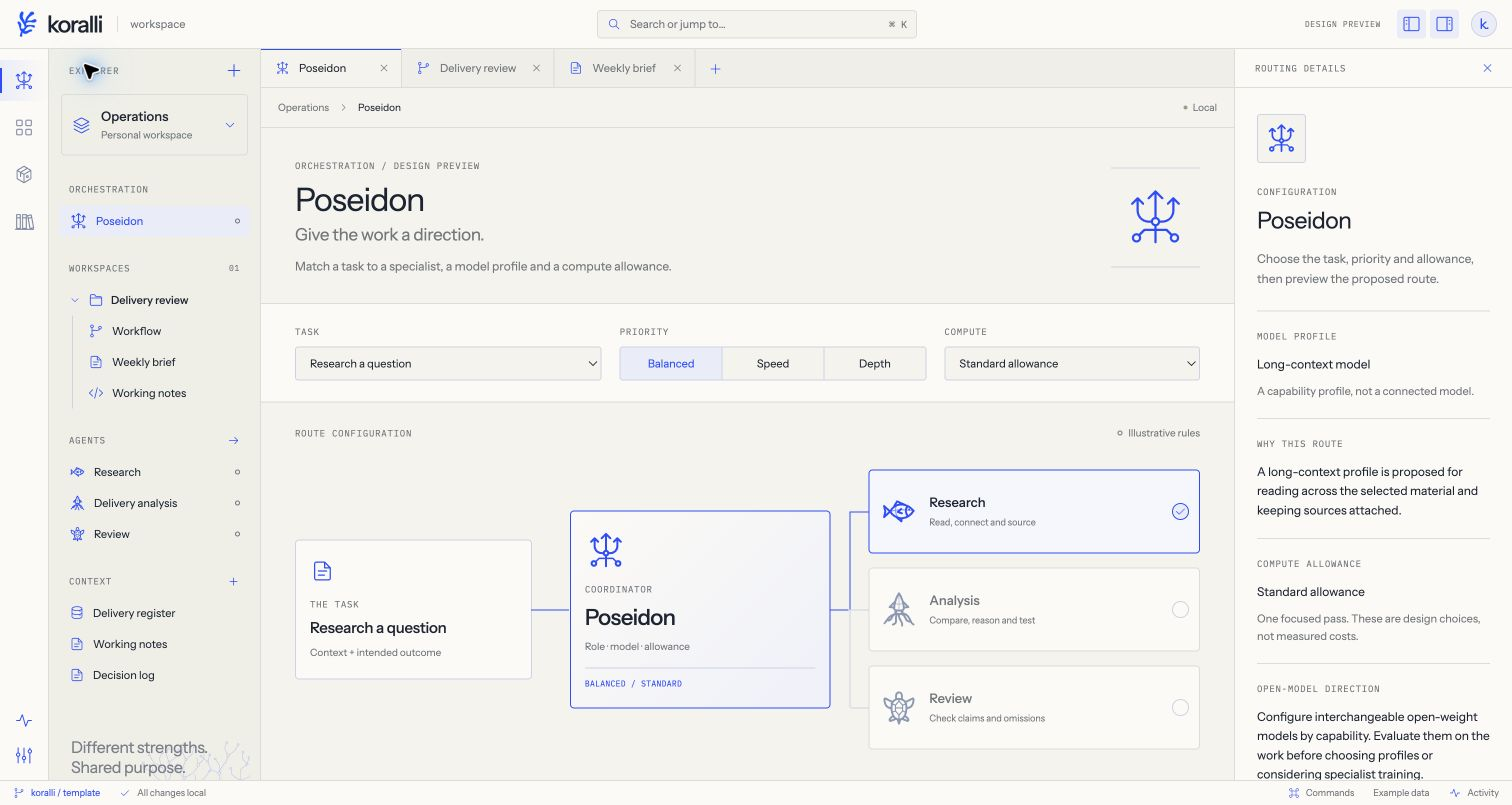
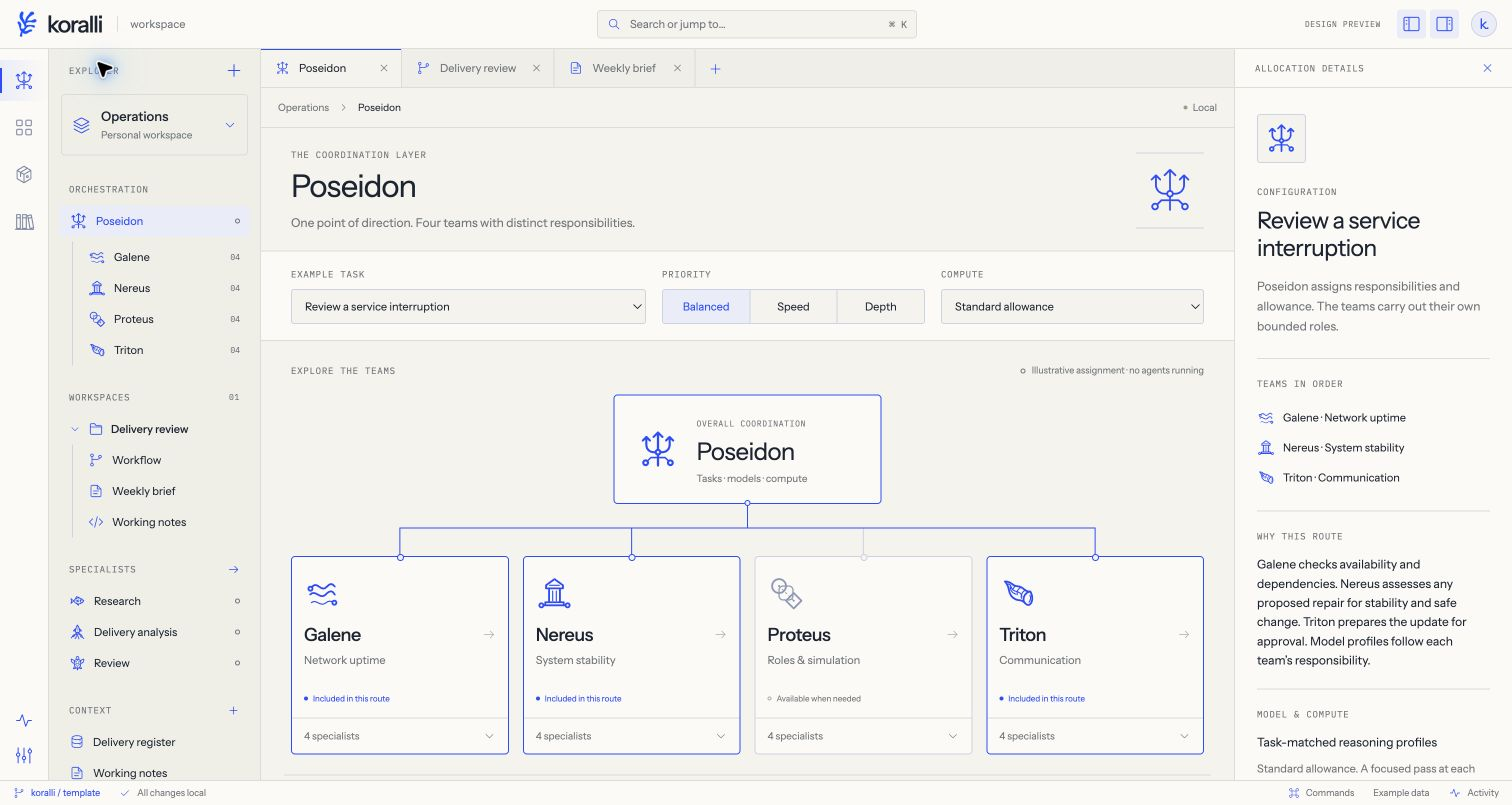
Present four-coordinator workspace on Agent Systems page

diff --git a/dist/agent-systems.html b/dist/agent-systems.html
@@ -6,10 +6,10 @@
   <meta name="robots" content="noindex,nofollow">
   <meta name="description" content="Explore Koralli Workspace and Poseidon, a planned orchestrator for learning how to allocate work across specialist agents and models.">
   <title>Koralli Workspace · Agent Systems · Koralli</title>
-  <link rel="stylesheet" href="./styles/site.css?v=f0590c49520f">
-  <link rel="stylesheet" href="./styles/revision.css?v=f0590c49520f">
-  <link rel="stylesheet" href="./styles/agent-systems.css?v=f0590c49520f">
-  <script type="module" src="./scripts/site.js?v=f0590c49520f"></script>
+  <link rel="stylesheet" href="./styles/site.css?v=92669125fe89">
+  <link rel="stylesheet" href="./styles/revision.css?v=92669125fe89">
+  <link rel="stylesheet" href="./styles/agent-systems.css?v=92669125fe89">
+  <script type="module" src="./scripts/site.js?v=92669125fe89"></script>
 </head>
 <body class="agent-systems-page">
   <a class="skip-link" href="#main">Skip to content</a>
@@ -33,7 +33,7 @@
       <div class="agent-opening-label"><p class="eyebrow"><span class="coral-square"></span>KORALLI WORKSPACE</p><span class="agent-development">IN DEVELOPMENT</span></div>
       <h1 id="agent-title">A reef of specialists.</h1>
       <div class="agent-opening-grid">
-        <div class="agent-opening-copy"><p class="intro">A workspace for coordinating agents with different roles, shared sources and people responsible for the decisions.</p><p>Research, analysis and review each need their own perspective. Poseidon is our planned orchestrator for deciding how to divide that work across specialists and models, then learning from the results.</p></div>
+        <div class="agent-opening-copy"><p class="intro">A workspace for coordinating agents with different roles, shared sources and people responsible for the decisions.</p><p>Poseidon is our planned orchestrator, with four coordinators for availability, stability, representation and communications. Each would bring together specialist subagents around the work.</p></div>
         <div class="agent-opening-actions"><a class="agent-demo-link" href="https://kjayres.github.io/koralli-workspace/#poseidon">EXPLORE POSEIDON <span aria-hidden="true">↗</span></a><p>Interactive interface prototype.<br>Agent execution is not connected.</p><a class="text-link" href="https://kjayres.github.io/koralli-workspace/#overview">EXPLORE THE WORKSPACE ↗</a></div>
       </div>
     </section>
@@ -44,18 +44,19 @@
     <section class="section agent-poseidon" id="poseidon" aria-labelledby="poseidon-title">
       <div class="section-label"><span>POSEIDON / THE ORCHESTRATOR</span><i></i></div>
       <div class="agent-poseidon-grid">
-        <div><h2 id="poseidon-title">Learning how to divide the work.</h2><p>The aim is to learn which specialist and model suit a task, using measured outcomes, cost, response time and feedback from the people using the workspace.</p><p>Each specialist has a distinct role and a marine identity. Poseidon coordinates the assignments, keeping the model choice and compute allowance visible.</p></div>
+        <div><h2 id="poseidon-title">One direction. Four coordinators.</h2><p>The planned orchestrator assigns work, selects models and sets compute allowances. The aim is to evaluate those choices against outcomes, cost, response time and feedback from the people using the workspace.</p><p>Galene looks after uptime. Nereus covers stability and safe change. Proteus handles labelled roles, scenarios and authorised representations. Triton coordinates communications. Each can bring in specialist subagents.</p></div>
         <figure class="agent-routing">
-          <svg viewBox="0 0 420 162" aria-hidden="true" focusable="false">
-            <g class="agent-routing-lines"><path d="M210 56V77M70 107V77H350V107M210 77V107"/><circle cx="210" cy="77" r="3"/></g>
+          <svg viewBox="0 0 420 170" aria-hidden="true" focusable="false">
+            <g class="agent-routing-lines"><path d="M210 56V84M52.5 110V84H367.5V110M157.5 84V110M262.5 84V110"/><circle cx="210" cy="84" r="3"/></g>
             <g class="agent-routing-symbols">
-              <g transform="translate(186 8) scale(2)"><path vector-effect="non-scaling-stroke" d="M12 2.5V21m-2.5-16L12 2.5 14.5 5M5.5 5v4.5a4 4 0 0 0 4 4H12m6.5-8.5v4.5a4 4 0 0 1-4 4H12M3.5 7l2-2 2 2m9 0 2-2 2 2"/><path vector-effect="non-scaling-stroke" d="M12 16.5H8l-2 2m6-2h4l2 2" stroke-width=".85"/><circle vector-effect="non-scaling-stroke" cx="5.1" cy="19.4" r="1.3"/><circle vector-effect="non-scaling-stroke" cx="18.9" cy="19.4" r="1.3"/><circle vector-effect="non-scaling-stroke" cx="12" cy="13.5" r="1.3" fill="var(--paper, white)"/></g>
-              <g transform="translate(46 105) scale(2)"><path vector-effect="non-scaling-stroke" d="M6.5 12C10 5.8 17 6.8 21 11.6c-3.8 5.9-10.7 6.1-14.5.4Zm0 0L2.8 8.6l.8 3.4-.8 3.5L6.5 12ZM9 8.8l1.8-3 4.8 2.1m-5.1 7.7 3 2.5.1-1.9"/><path vector-effect="non-scaling-stroke" d="M17 9c-1.1 1.9-1.1 3.5.2 5.5m-3.8-4.1-2.2 1.9 2.6.8"/><path vector-effect="non-scaling-stroke" d="M10.4 8.5c-1 2.5-.7 4.7 1 7.4M6.5 12c4.3-1.4 8.3-1.3 14.5-.4" stroke-width=".65" opacity=".55"/><circle vector-effect="non-scaling-stroke" cx="18.2" cy="10.8" r=".55" fill="currentColor" stroke="none"/></g>
-              <g transform="translate(186 105) scale(2)"><path vector-effect="non-scaling-stroke" d="M12 2c-1.6 2.3-3 6.2-3 9.5 0 1.6 6 1.6 6 0 0-3.3-1.4-7.2-3-9.5ZM9.7 7l-3.5 3.5 2.9.3M14.3 7l3.5 3.5-2.9.3M10 12.4l-.3 1.7c1.3 1 3.3 1 4.6 0l-.3-1.7M10 14.5c-3 1.2-1.7 3.7-4.5 4.3m5.5-4c-2.3 2.8 1 5.3-2.8 6.5M12 15c-.5 3.2 2.5 4.4 1.9 7m-.4-7.2c3.5 1.2 1.5 4.1 5.1 4.7m-8.1-4.8C5.5 15.1 4 20.1 3 20.5m10.6-6.1c5.3-.1 5.1 6.4 7.4 6.8"/><path vector-effect="non-scaling-stroke" d="M12 2v10.4M9.5 8.2c1.6.8 3.4.8 5 0" stroke-width=".65" opacity=".55"/><circle vector-effect="non-scaling-stroke" cx="10.5" cy="13.5" r=".45" fill="currentColor" stroke="none"/><circle vector-effect="non-scaling-stroke" cx="13.5" cy="13.5" r=".45" fill="currentColor" stroke="none"/></g>
-              <g transform="translate(326 105) scale(2)"><path vector-effect="non-scaling-stroke" d="M12 6.7c-5 0-5.4 5.5-3.8 9.8 1.6 3.9 6.1 3.9 7.6 0C17.3 12.1 17 6.7 12 6.7Zm-1.8.4V4.8c0-2.8 3.6-2.8 3.6 0v2.3M7.9 8.5C4 7.2 2.8 4.8 3.1 8c.4 3 1.7 4 4 4.5m9-4C20 7.2 21.2 4.8 20.9 8c-.4 3-1.7 4-4 4.5M8.6 17.2c-2.4 1-3 3.2-1.8 3.1l3.6-1.4m5-1.7c2.4 1 3 3.2 1.8 3.1l-3.6-1.4M11.2 19.5 12 22l.8-2.5"/><g stroke-width=".7"><path vector-effect="non-scaling-stroke" d="m12 8 2.2 2.6v3.5L12 16.7l-2.2-2.6v-3.5L12 8Zm-2.2 4.3h4.4M12 6.7V8m0 8.7v2.6m-2.2-8.7-2.6-1m7 1 2.6-1m-7 4.5-2.4 1m6.8-1 2.4 1"/></g></g>
+              <g class="agent-routing-poseidon" transform="translate(186 8) scale(2)"><path vector-effect="non-scaling-stroke" d="M12 2.5V21m-2.5-16L12 2.5 14.5 5M5.5 5v4.5a4 4 0 0 0 4 4H12m6.5-8.5v4.5a4 4 0 0 1-4 4H12M3.5 7l2-2 2 2m9 0 2-2 2 2"/><path vector-effect="non-scaling-stroke" d="M12 16.5H8l-2 2m6-2h4l2 2" stroke-width=".85"/><circle vector-effect="non-scaling-stroke" cx="5.1" cy="19.4" r="1.3"/><circle vector-effect="non-scaling-stroke" cx="18.9" cy="19.4" r="1.3"/><circle vector-effect="non-scaling-stroke" cx="12" cy="13.5" r="1.3" fill="var(--paper, white)"/></g>
+              <g class="agent-routing-galene" transform="translate(28.5 115) scale(2)"><path vector-effect="non-scaling-stroke" d="M5.1 8.2C8.5 3.8 11 11.7 14.5 8.2S18.4 6.6 20 7.8M4 13c3.5-3.5 6.4 3.6 10 0s4.7-1.8 6 .1"/><path vector-effect="non-scaling-stroke" d="M4.8 18.3c3-2.7 5.8 2.9 9.2.2 1.8-1.5 3.3-1.4 4.4-.7" stroke-width=".75"/><circle vector-effect="non-scaling-stroke" cx="4.2" cy="9.2" r="1.3"/><circle vector-effect="non-scaling-stroke" cx="19.7" cy="18.3" r="1.3"/></g>
+              <g class="agent-routing-nereus" transform="translate(133.5 115) scale(2)"><path vector-effect="non-scaling-stroke" d="m6.5 7 5.5-4 5.5 4v2h-11V7Zm2 2v9m7-9v9M6 18h12v2H6v-2ZM6 20H4.8m13.2 0h1.2"/><path vector-effect="non-scaling-stroke" d="M10.8 10.7V17m2.4-6.3V17M8.8 7h6.4" stroke-width=".7"/><circle vector-effect="non-scaling-stroke" cx="3.5" cy="20" r="1.3"/><circle vector-effect="non-scaling-stroke" cx="20.5" cy="20" r="1.3"/></g>
+              <g class="agent-routing-proteus" transform="translate(238.5 115) scale(2)"><circle vector-effect="non-scaling-stroke" cx="7.5" cy="7.5" r="4.5"/><rect vector-effect="non-scaling-stroke" x="7.5" y="7.5" width="9" height="9" rx="2.6" stroke-width=".8"/><path vector-effect="non-scaling-stroke" d="m17 12 5 5-5 5-5-5 5-5Z"/><path vector-effect="non-scaling-stroke" d="m7.5 7.5 4.5 4.5 5 5" stroke-width=".65" stroke-dasharray="1 2"/><circle vector-effect="non-scaling-stroke" cx="7.5" cy="7.5" r=".65" fill="currentColor" stroke="none"/><circle vector-effect="non-scaling-stroke" cx="17" cy="17" r=".65" fill="currentColor" stroke="none"/></g>
+              <g class="agent-routing-triton" transform="translate(343.5 115) scale(2)"><path vector-effect="non-scaling-stroke" d="M3.5 4.5c4.5 0 4.7 3 8 3.1 4 .1 5.3 4.2 8.5 3.4 3 5 0 11-3 8-3-3.8-5-1-8.5-4.2C5.2 11.8 7 8 3.5 4.5ZM20 11c-4 .5-6 6-3 8"/><path vector-effect="non-scaling-stroke" d="M5.7 6.1c2.3.6 1.5 3.3 3.6 4.3s4.5.8 5.3 3.6M7 8c-.1 1.9 1.1 4.1 3.6 4.7m-.1-5.3c-1.1.7-1.7 1.7-1.9 2.6m5.3-1.7c-2 1-2.8 2.6-2.4 4.9m5.3-3.1c-2.4 1.2-3 3.4-2.6 5.4M19.7 13.3c.9 1.7.4 3.5-.6 4.7" stroke-width=".7"/></g>
             </g>
           </svg>
-          <figcaption><span>FISH<small>Research</small></span><span>SQUID<small>Analysis</small></span><span>TURTLE<small>Review</small></span></figcaption>
+          <figcaption><a href="https://kjayres.github.io/koralli-workspace/#galene"><span>GALENE</span><small>Uptime</small></a><a href="https://kjayres.github.io/koralli-workspace/#nereus"><span>NEREUS</span><small>Stability and safe change</small></a><a href="https://kjayres.github.io/koralli-workspace/#proteus"><span>PROTEUS</span><small>Roles and scenarios</small></a><a href="https://kjayres.github.io/koralli-workspace/#triton"><span>TRITON</span><small>Briefings and voice</small></a></figcaption>
         </figure>
       </div>
       <ol class="agent-poseidon-cycle">

diff --git a/src/agent-systems.html b/src/agent-systems.html
@@ -18,7 +18,7 @@
       <div class="agent-opening-label"><p class="eyebrow"><span class="coral-square"></span>KORALLI WORKSPACE</p><span class="agent-development">IN DEVELOPMENT</span></div>
       <h1 id="agent-title">A reef of specialists.</h1>
       <div class="agent-opening-grid">
-        <div class="agent-opening-copy"><p class="intro">A workspace for coordinating agents with different roles, shared sources and people responsible for the decisions.</p><p>Research, analysis and review each need their own perspective. Poseidon is our planned orchestrator for deciding how to divide that work across specialists and models, then learning from the results.</p></div>
+        <div class="agent-opening-copy"><p class="intro">A workspace for coordinating agents with different roles, shared sources and people responsible for the decisions.</p><p>Poseidon is our planned orchestrator, with four coordinators for availability, stability, representation and communications. Each would bring together specialist subagents around the work.</p></div>
         <div class="agent-opening-actions"><a class="agent-demo-link" href="https://kjayres.github.io/koralli-workspace/#poseidon">EXPLORE POSEIDON <span aria-hidden="true">↗</span></a><p>Interactive interface prototype.<br>Agent execution is not connected.</p><a class="text-link" href="https://kjayres.github.io/koralli-workspace/#overview">EXPLORE THE WORKSPACE ↗</a></div>
       </div>
     </section>
@@ -29,18 +29,19 @@
     <section class="section agent-poseidon" id="poseidon" aria-labelledby="poseidon-title">
       <div class="section-label"><span>POSEIDON / THE ORCHESTRATOR</span><i></i></div>
       <div class="agent-poseidon-grid">
-        <div><h2 id="poseidon-title">Learning how to divide the work.</h2><p>The aim is to learn which specialist and model suit a task, using measured outcomes, cost, response time and feedback from the people using the workspace.</p><p>Each specialist has a distinct role and a marine identity. Poseidon coordinates the assignments, keeping the model choice and compute allowance visible.</p></div>
+        <div><h2 id="poseidon-title">One direction. Four coordinators.</h2><p>The planned orchestrator assigns work, selects models and sets compute allowances. The aim is to evaluate those choices against outcomes, cost, response time and feedback from the people using the workspace.</p><p>Galene looks after uptime. Nereus covers stability and safe change. Proteus handles labelled roles, scenarios and authorised representations. Triton coordinates communications. Each can bring in specialist subagents.</p></div>
         <figure class="agent-routing">
-          <svg viewBox="0 0 420 162" aria-hidden="true" focusable="false">
-            <g class="agent-routing-lines"><path d="M210 56V77M70 107V77H350V107M210 77V107"/><circle cx="210" cy="77" r="3"/></g>
+          <svg viewBox="0 0 420 170" aria-hidden="true" focusable="false">
+            <g class="agent-routing-lines"><path d="M210 56V84M52.5 110V84H367.5V110M157.5 84V110M262.5 84V110"/><circle cx="210" cy="84" r="3"/></g>
             <g class="agent-routing-symbols">
-              <g transform="translate(186 8) scale(2)"><path vector-effect="non-scaling-stroke" d="M12 2.5V21m-2.5-16L12 2.5 14.5 5M5.5 5v4.5a4 4 0 0 0 4 4H12m6.5-8.5v4.5a4 4 0 0 1-4 4H12M3.5 7l2-2 2 2m9 0 2-2 2 2"/><path vector-effect="non-scaling-stroke" d="M12 16.5H8l-2 2m6-2h4l2 2" stroke-width=".85"/><circle vector-effect="non-scaling-stroke" cx="5.1" cy="19.4" r="1.3"/><circle vector-effect="non-scaling-stroke" cx="18.9" cy="19.4" r="1.3"/><circle vector-effect="non-scaling-stroke" cx="12" cy="13.5" r="1.3" fill="var(--paper, white)"/></g>
-              <g transform="translate(46 105) scale(2)"><path vector-effect="non-scaling-stroke" d="M6.5 12C10 5.8 17 6.8 21 11.6c-3.8 5.9-10.7 6.1-14.5.4Zm0 0L2.8 8.6l.8 3.4-.8 3.5L6.5 12ZM9 8.8l1.8-3 4.8 2.1m-5.1 7.7 3 2.5.1-1.9"/><path vector-effect="non-scaling-stroke" d="M17 9c-1.1 1.9-1.1 3.5.2 5.5m-3.8-4.1-2.2 1.9 2.6.8"/><path vector-effect="non-scaling-stroke" d="M10.4 8.5c-1 2.5-.7 4.7 1 7.4M6.5 12c4.3-1.4 8.3-1.3 14.5-.4" stroke-width=".65" opacity=".55"/><circle vector-effect="non-scaling-stroke" cx="18.2" cy="10.8" r=".55" fill="currentColor" stroke="none"/></g>
-              <g transform="translate(186 105) scale(2)"><path vector-effect="non-scaling-stroke" d="M12 2c-1.6 2.3-3 6.2-3 9.5 0 1.6 6 1.6 6 0 0-3.3-1.4-7.2-3-9.5ZM9.7 7l-3.5 3.5 2.9.3M14.3 7l3.5 3.5-2.9.3M10 12.4l-.3 1.7c1.3 1 3.3 1 4.6 0l-.3-1.7M10 14.5c-3 1.2-1.7 3.7-4.5 4.3m5.5-4c-2.3 2.8 1 5.3-2.8 6.5M12 15c-.5 3.2 2.5 4.4 1.9 7m-.4-7.2c3.5 1.2 1.5 4.1 5.1 4.7m-8.1-4.8C5.5 15.1 4 20.1 3 20.5m10.6-6.1c5.3-.1 5.1 6.4 7.4 6.8"/><path vector-effect="non-scaling-stroke" d="M12 2v10.4M9.5 8.2c1.6.8 3.4.8 5 0" stroke-width=".65" opacity=".55"/><circle vector-effect="non-scaling-stroke" cx="10.5" cy="13.5" r=".45" fill="currentColor" stroke="none"/><circle vector-effect="non-scaling-stroke" cx="13.5" cy="13.5" r=".45" fill="currentColor" stroke="none"/></g>
-              <g transform="translate(326 105) scale(2)"><path vector-effect="non-scaling-stroke" d="M12 6.7c-5 0-5.4 5.5-3.8 9.8 1.6 3.9 6.1 3.9 7.6 0C17.3 12.1 17 6.7 12 6.7Zm-1.8.4V4.8c0-2.8 3.6-2.8 3.6 0v2.3M7.9 8.5C4 7.2 2.8 4.8 3.1 8c.4 3 1.7 4 4 4.5m9-4C20 7.2 21.2 4.8 20.9 8c-.4 3-1.7 4-4 4.5M8.6 17.2c-2.4 1-3 3.2-1.8 3.1l3.6-1.4m5-1.7c2.4 1 3 3.2 1.8 3.1l-3.6-1.4M11.2 19.5 12 22l.8-2.5"/><g stroke-width=".7"><path vector-effect="non-scaling-stroke" d="m12 8 2.2 2.6v3.5L12 16.7l-2.2-2.6v-3.5L12 8Zm-2.2 4.3h4.4M12 6.7V8m0 8.7v2.6m-2.2-8.7-2.6-1m7 1 2.6-1m-7 4.5-2.4 1m6.8-1 2.4 1"/></g></g>
+              <g class="agent-routing-poseidon" transform="translate(186 8) scale(2)"><path vector-effect="non-scaling-stroke" d="M12 2.5V21m-2.5-16L12 2.5 14.5 5M5.5 5v4.5a4 4 0 0 0 4 4H12m6.5-8.5v4.5a4 4 0 0 1-4 4H12M3.5 7l2-2 2 2m9 0 2-2 2 2"/><path vector-effect="non-scaling-stroke" d="M12 16.5H8l-2 2m6-2h4l2 2" stroke-width=".85"/><circle vector-effect="non-scaling-stroke" cx="5.1" cy="19.4" r="1.3"/><circle vector-effect="non-scaling-stroke" cx="18.9" cy="19.4" r="1.3"/><circle vector-effect="non-scaling-stroke" cx="12" cy="13.5" r="1.3" fill="var(--paper, white)"/></g>
+              <g class="agent-routing-galene" transform="translate(28.5 115) scale(2)"><path vector-effect="non-scaling-stroke" d="M5.1 8.2C8.5 3.8 11 11.7 14.5 8.2S18.4 6.6 20 7.8M4 13c3.5-3.5 6.4 3.6 10 0s4.7-1.8 6 .1"/><path vector-effect="non-scaling-stroke" d="M4.8 18.3c3-2.7 5.8 2.9 9.2.2 1.8-1.5 3.3-1.4 4.4-.7" stroke-width=".75"/><circle vector-effect="non-scaling-stroke" cx="4.2" cy="9.2" r="1.3"/><circle vector-effect="non-scaling-stroke" cx="19.7" cy="18.3" r="1.3"/></g>
+              <g class="agent-routing-nereus" transform="translate(133.5 115) scale(2)"><path vector-effect="non-scaling-stroke" d="m6.5 7 5.5-4 5.5 4v2h-11V7Zm2 2v9m7-9v9M6 18h12v2H6v-2ZM6 20H4.8m13.2 0h1.2"/><path vector-effect="non-scaling-stroke" d="M10.8 10.7V17m2.4-6.3V17M8.8 7h6.4" stroke-width=".7"/><circle vector-effect="non-scaling-stroke" cx="3.5" cy="20" r="1.3"/><circle vector-effect="non-scaling-stroke" cx="20.5" cy="20" r="1.3"/></g>
+              <g class="agent-routing-proteus" transform="translate(238.5 115) scale(2)"><circle vector-effect="non-scaling-stroke" cx="7.5" cy="7.5" r="4.5"/><rect vector-effect="non-scaling-stroke" x="7.5" y="7.5" width="9" height="9" rx="2.6" stroke-width=".8"/><path vector-effect="non-scaling-stroke" d="m17 12 5 5-5 5-5-5 5-5Z"/><path vector-effect="non-scaling-stroke" d="m7.5 7.5 4.5 4.5 5 5" stroke-width=".65" stroke-dasharray="1 2"/><circle vector-effect="non-scaling-stroke" cx="7.5" cy="7.5" r=".65" fill="currentColor" stroke="none"/><circle vector-effect="non-scaling-stroke" cx="17" cy="17" r=".65" fill="currentColor" stroke="none"/></g>
+              <g class="agent-routing-triton" transform="translate(343.5 115) scale(2)"><path vector-effect="non-scaling-stroke" d="M3.5 4.5c4.5 0 4.7 3 8 3.1 4 .1 5.3 4.2 8.5 3.4 3 5 0 11-3 8-3-3.8-5-1-8.5-4.2C5.2 11.8 7 8 3.5 4.5ZM20 11c-4 .5-6 6-3 8"/><path vector-effect="non-scaling-stroke" d="M5.7 6.1c2.3.6 1.5 3.3 3.6 4.3s4.5.8 5.3 3.6M7 8c-.1 1.9 1.1 4.1 3.6 4.7m-.1-5.3c-1.1.7-1.7 1.7-1.9 2.6m5.3-1.7c-2 1-2.8 2.6-2.4 4.9m5.3-3.1c-2.4 1.2-3 3.4-2.6 5.4M19.7 13.3c.9 1.7.4 3.5-.6 4.7" stroke-width=".7"/></g>
             </g>
           </svg>
-          <figcaption><span>FISH<small>Research</small></span><span>SQUID<small>Analysis</small></span><span>TURTLE<small>Review</small></span></figcaption>
+          <figcaption><a href="https://kjayres.github.io/koralli-workspace/#galene"><span>GALENE</span><small>Uptime</small></a><a href="https://kjayres.github.io/koralli-workspace/#nereus"><span>NEREUS</span><small>Stability and safe change</small></a><a href="https://kjayres.github.io/koralli-workspace/#proteus"><span>PROTEUS</span><small>Roles and scenarios</small></a><a href="https://kjayres.github.io/koralli-workspace/#triton"><span>TRITON</span><small>Briefings and voice</small></a></figcaption>
         </figure>
       </div>
       <ol class="agent-poseidon-cycle">

diff --git a/dist/scripts/site.js b/dist/scripts/site.js
@@ -8,12 +8,12 @@ let updateApproach = () => {};
 let journalState;
 let journalViewportDirty = true;
 const artworkLoaders = {
-  wave: () => import('./art/wave.mjs?v=f0590c49520f'),
-  research: () => import('./art/research.mjs?v=f0590c49520f'),
-  approach: () => import('./art/approach.mjs?v=f0590c49520f'),
-  coral: () => import('./art/coral.mjs?v=f0590c49520f'),
-  reef: () => import('./art/reef.mjs?v=f0590c49520f'),
-  'journal-water': () => import('./art/journal-water.mjs?v=f0590c49520f')
+  wave: () => import('./art/wave.mjs?v=92669125fe89'),
+  research: () => import('./art/research.mjs?v=92669125fe89'),
+  approach: () => import('./art/approach.mjs?v=92669125fe89'),
+  coral: () => import('./art/coral.mjs?v=92669125fe89'),
+  reef: () => import('./art/reef.mjs?v=92669125fe89'),
+  'journal-water': () => import('./art/journal-water.mjs?v=92669125fe89')
 };
 
 function artworkFailed(state, error) {
@@ -60,7 +60,7 @@ async function prepareArtwork(state) {
       state.reef = new state.art.Reef();
     }
     if (state.kind === 'journal-water') {
-      const { initJournalLettering } = await import('./art/journal-lettering.mjs?v=f0590c49520f');
+      const { initJournalLettering } = await import('./art/journal-lettering.mjs?v=92669125fe89');
       state.updateJournalLettering = initJournalLettering();
     }
     state.loaded = true;
@@ -214,7 +214,7 @@ for (const canvas of document.querySelectorAll('canvas[data-art]')) {
   }
 }
 
-if (document.querySelector('[data-approach]')) import('./approach-view.mjs?v=f0590c49520f').then(({ initApproach }) => {
+if (document.querySelector('[data-approach]')) import('./approach-view.mjs?v=92669125fe89').then(({ initApproach }) => {
   updateApproach = initApproach(phase => {
     const state = canvasStates.find(item => item.kind === 'approach');
     if (!state) return;
@@ -344,7 +344,7 @@ depths.forEach((button, i) => button.addEventListener('click', () => {
   scrollTo({ top, behavior: 'smooth' });
 }));
 
-if (building && svg) import('./art/building.mjs?v=f0590c49520f').then(module => {
+if (building && svg) import('./art/building.mjs?v=92669125fe89').then(module => {
   preserveReadingPosition(() => {
     // First prove the renderer works while the complete static copy is still present.
     module.updateBuilding(svg, 0, motion.matches);
@@ -403,10 +403,10 @@ document.addEventListener('visibilitychange', () => {
 document.querySelectorAll('.site-header nav a').forEach(link => {
   if (new URL(link.href).pathname === location.pathname && !link.hash) link.setAttribute('aria-current', 'page');
 });
-if (document.querySelector('[data-workbench]')) import('./workflow-view.mjs?v=f0590c49520f')
+if (document.querySelector('[data-workbench]')) import('./workflow-view.mjs?v=92669125fe89')
   .then(({ initWorkflows }) => initWorkflows())
   .catch(error => console.error('Unable to initialise the workflow examples:', error));
-if (document.querySelector('#team-question')) import('./team.mjs?v=f0590c49520f')
+if (document.querySelector('#team-question')) import('./team.mjs?v=92669125fe89')
   .then(({ initTeam }) => initTeam())
   .catch(error => console.error('Unable to initialise the team examples:', error));
 if (tracksScroll) onScroll();

diff --git a/dist/styles/agent-systems.css b/dist/styles/agent-systems.css
@@ -26,8 +26,12 @@
 .agent-routing svg { display:block; width:100%; height:auto; fill:none; stroke:currentColor; stroke-width:1.1; stroke-linecap:round; stroke-linejoin:round; }
 .agent-routing-lines { stroke-opacity:.4; }
 .agent-routing-lines circle { fill:var(--paper); }
-.agent-routing figcaption { display:grid; grid-template-columns:repeat(3,1fr); text-align:center; font:9px/1.6 var(--mono); letter-spacing:.1em; }
-.agent-routing small { display:block; margin-top:5px; font:13px/1.5 'Instrument Sans',sans-serif; color:#5c5b58; letter-spacing:0; }
+.agent-routing figcaption { display:grid; grid-template-columns:repeat(4,minmax(0,1fr)); gap:10px; text-align:center; font:9px/1.6 var(--mono); letter-spacing:.07em; }
+.agent-routing figcaption a { display:block; min-width:0; padding:10px 2px 8px; border-top:1px solid var(--rule); }
+.agent-routing figcaption a:hover { border-top-color:var(--blue); background:rgba(36,78,255,.025); }
+.agent-routing figcaption a>span { border-bottom:1px solid transparent; padding-bottom:3px; }
+.agent-routing figcaption a:hover>span { border-bottom-color:currentColor; }
+.agent-routing small { display:block; margin-top:7px; font:12px/1.5 'Instrument Sans',sans-serif; color:#5c5b58; letter-spacing:0; }
 .agent-poseidon-cycle { display:grid; grid-template-columns:repeat(4,minmax(0,1fr)); gap:30px; margin:40px 0 0; padding:0; list-style:none; }
 .agent-poseidon-cycle li { border-top:1px solid var(--rule); padding-top:15px; }
 .agent-poseidon-cycle li>span { color:var(--blue); font:10px/1.6 var(--mono); }
@@ -64,6 +68,8 @@
   .agent-poseidon-grid { grid-template-columns:1fr; gap:24px; margin-top:26px; }
   .agent-poseidon-grid p { font-size:14px; margin-top:17px; }
   .agent-routing { max-width:440px; width:100%; margin:0 auto; }
+  .agent-routing figcaption { gap:5px; font-size:8px; letter-spacing:.03em; }
+  .agent-routing small { font-size:10px; overflow-wrap:anywhere; }
   .agent-poseidon-cycle { grid-template-columns:repeat(2,minmax(0,1fr)); gap:26px 22px; margin-top:32px; }
   .agent-poseidon-cycle h3 { font-size:19px; }
   .agent-poseidon-cycle p { font-size:13px; }

diff --git a/src/styles/agent-systems.css b/src/styles/agent-systems.css
@@ -26,8 +26,12 @@
 .agent-routing svg { display:block; width:100%; height:auto; fill:none; stroke:currentColor; stroke-width:1.1; stroke-linecap:round; stroke-linejoin:round; }
 .agent-routing-lines { stroke-opacity:.4; }
 .agent-routing-lines circle { fill:var(--paper); }
-.agent-routing figcaption { display:grid; grid-template-columns:repeat(3,1fr); text-align:center; font:9px/1.6 var(--mono); letter-spacing:.1em; }
-.agent-routing small { display:block; margin-top:5px; font:13px/1.5 'Instrument Sans',sans-serif; color:#5c5b58; letter-spacing:0; }
+.agent-routing figcaption { display:grid; grid-template-columns:repeat(4,minmax(0,1fr)); gap:10px; text-align:center; font:9px/1.6 var(--mono); letter-spacing:.07em; }
+.agent-routing figcaption a { display:block; min-width:0; padding:10px 2px 8px; border-top:1px solid var(--rule); }
+.agent-routing figcaption a:hover { border-top-color:var(--blue); background:rgba(36,78,255,.025); }
+.agent-routing figcaption a>span { border-bottom:1px solid transparent; padding-bottom:3px; }
+.agent-routing figcaption a:hover>span { border-bottom-color:currentColor; }
+.agent-routing small { display:block; margin-top:7px; font:12px/1.5 'Instrument Sans',sans-serif; color:#5c5b58; letter-spacing:0; }
 .agent-poseidon-cycle { display:grid; grid-template-columns:repeat(4,minmax(0,1fr)); gap:30px; margin:40px 0 0; padding:0; list-style:none; }
 .agent-poseidon-cycle li { border-top:1px solid var(--rule); padding-top:15px; }
 .agent-poseidon-cycle li>span { color:var(--blue); font:10px/1.6 var(--mono); }
@@ -64,6 +68,8 @@
   .agent-poseidon-grid { grid-template-columns:1fr; gap:24px; margin-top:26px; }
   .agent-poseidon-grid p { font-size:14px; margin-top:17px; }
   .agent-routing { max-width:440px; width:100%; margin:0 auto; }
+  .agent-routing figcaption { gap:5px; font-size:8px; letter-spacing:.03em; }
+  .agent-routing small { font-size:10px; overflow-wrap:anywhere; }
   .agent-poseidon-cycle { grid-template-columns:repeat(2,minmax(0,1fr)); gap:26px 22px; margin-top:32px; }
   .agent-poseidon-cycle h3 { font-size:19px; }
   .agent-poseidon-cycle p { font-size:13px; }

diff --git a/dist/our-work.html b/dist/our-work.html
@@ -6,14 +6,14 @@
   <meta name="robots" content="noindex,nofollow">
   <meta name="description" content="How koralli connects research, building and learning. A global bank engagement and the questions we work on.">
   <title>Our Work · Koralli</title>
-  <link rel="stylesheet" href="./styles/site.css?v=f0590c49520f">
-  <link rel="stylesheet" href="./styles/revision.css?v=f0590c49520f">
-  <link rel="stylesheet" href="./styles/editorial.css?v=f0590c49520f">
-  <link rel="stylesheet" href="./styles/approach.css?v=f0590c49520f">
-  <link rel="stylesheet" href="./styles/decoding-title.css?v=f0590c49520f">
-  <link rel="stylesheet" href="./styles/workflow-refinement.css?v=f0590c49520f">
-  <script type="module" src="./scripts/site.js?v=f0590c49520f"></script>
-  <script type="module" src="./scripts/decoding-title.mjs?v=f0590c49520f"></script>
+  <link rel="stylesheet" href="./styles/site.css?v=92669125fe89">
+  <link rel="stylesheet" href="./styles/revision.css?v=92669125fe89">
+  <link rel="stylesheet" href="./styles/editorial.css?v=92669125fe89">
+  <link rel="stylesheet" href="./styles/approach.css?v=92669125fe89">
+  <link rel="stylesheet" href="./styles/decoding-title.css?v=92669125fe89">
+  <link rel="stylesheet" href="./styles/workflow-refinement.css?v=92669125fe89">
+  <script type="module" src="./scripts/site.js?v=92669125fe89"></script>
+  <script type="module" src="./scripts/decoding-title.mjs?v=92669125fe89"></script>
 </head>
 <body class="work-page">
   <a class="skip-link" href="#main">Skip to content</a>

diff --git a/dist/index.html b/dist/index.html
@@ -6,11 +6,11 @@
   <meta name="robots" content="noindex,nofollow">
   <meta name="description" content="koralli is a research-led consulting practice. Oxford researchers and experienced operators, working on operating models and their data foundations.">
   <title>Koralli · New questions need different perspectives</title>
-  <link rel="stylesheet" href="./styles/site.css?v=f0590c49520f">
-  <link rel="stylesheet" href="./styles/revision.css?v=f0590c49520f">
-  <link rel="stylesheet" href="./styles/editorial.css?v=f0590c49520f">
-  <link rel="stylesheet" href="./styles/reef.css?v=f0590c49520f">
-  <script type="module" src="./scripts/site.js?v=f0590c49520f"></script>
+  <link rel="stylesheet" href="./styles/site.css?v=92669125fe89">
+  <link rel="stylesheet" href="./styles/revision.css?v=92669125fe89">
+  <link rel="stylesheet" href="./styles/editorial.css?v=92669125fe89">
+  <link rel="stylesheet" href="./styles/reef.css?v=92669125fe89">
+  <script type="module" src="./scripts/site.js?v=92669125fe89"></script>
 </head>
 <body class="home-page">
   <a class="skip-link" href="#main">Skip to content</a>

diff --git a/dist/who-we-are.html b/dist/who-we-are.html
@@ -6,11 +6,11 @@
   <meta name="robots" content="noindex,nofollow">
   <meta name="description" content="Meet the researchers and operators who work together at koralli.">
   <title>Who We Are · Koralli</title>
-  <link rel="stylesheet" href="./styles/site.css?v=f0590c49520f">
-  <link rel="stylesheet" href="./styles/revision.css?v=f0590c49520f">
-  <link rel="stylesheet" href="./styles/editorial.css?v=f0590c49520f">
-  <link rel="stylesheet" href="./styles/portraits.css?v=f0590c49520f">
-  <script type="module" src="./scripts/site.js?v=f0590c49520f"></script>
+  <link rel="stylesheet" href="./styles/site.css?v=92669125fe89">
+  <link rel="stylesheet" href="./styles/revision.css?v=92669125fe89">
+  <link rel="stylesheet" href="./styles/editorial.css?v=92669125fe89">
+  <link rel="stylesheet" href="./styles/portraits.css?v=92669125fe89">
+  <script type="module" src="./scripts/site.js?v=92669125fe89"></script>
 </head>
 <body>
   <a class="skip-link" href="#main">Skip to content</a>

diff --git a/dist/views-from-the-reef.html b/dist/views-from-the-reef.html
@@ -6,10 +6,10 @@
   <meta name="robots" content="noindex,nofollow">
   <meta name="description" content="Views from the Reef. Notes on research, technology and the way organisations work.">
   <title>Views from the Reef · Koralli</title>
-  <link rel="stylesheet" href="./styles/site.css?v=f0590c49520f">
-  <link rel="stylesheet" href="./styles/revision.css?v=f0590c49520f">
-  <link rel="stylesheet" href="./styles/journal.css?v=f0590c49520f">
-  <script type="module" src="./scripts/site.js?v=f0590c49520f"></script>
+  <link rel="stylesheet" href="./styles/site.css?v=92669125fe89">
+  <link rel="stylesheet" href="./styles/revision.css?v=92669125fe89">
+  <link rel="stylesheet" href="./styles/journal.css?v=92669125fe89">
+  <script type="module" src="./scripts/site.js?v=92669125fe89"></script>
 </head>
 <body class="journal-page">
   <a class="skip-link" href="#main">Skip to content</a>

diff --git a/dist/artwork.html b/dist/artwork.html
@@ -1,5 +1,5 @@
 <!doctype html>
-<html lang="en-GB"><head><meta charset="utf-8"><meta name="viewport" content="width=device-width,initial-scale=1"><meta name="robots" content="noindex,nofollow"><title>Artwork studies · Koralli</title><link rel="stylesheet" href="./styles/site.css?v=f0590c49520f"><style>
+<html lang="en-GB"><head><meta charset="utf-8"><meta name="viewport" content="width=device-width,initial-scale=1"><meta name="robots" content="noindex,nofollow"><title>Artwork studies · Koralli</title><link rel="stylesheet" href="./styles/site.css?v=92669125fe89"><style>
 .art-header{padding:55px var(--gutter)}
 .art-grid{display:grid;grid-template-columns:repeat(auto-fit,minmax(min(100%,320px),1fr));gap:24px;padding:0 var(--gutter) 70px}
 .art-grid figure{margin:0;border-top:1px solid var(--rule);padding-top:20px}

diff --git a/dist/a-coherent-picture-comes-from-more-judgement-not-more-data.html b/dist/a-coherent-picture-comes-from-more-judgement-not-more-data.html
@@ -7,9 +7,9 @@
   <meta name="description" content="How shared definitions, careful measurement and work across disciplines gave a global bank a coherent view of delivery.">
   <meta name="author" content="Antony Turner">
   <title>A coherent picture comes from more judgement, not more data · Koralli</title>
-  <link rel="stylesheet" href="./styles/site.css?v=f0590c49520f">
-  <link rel="stylesheet" href="./styles/revision.css?v=f0590c49520f">
-  <link rel="stylesheet" href="./styles/article.css?v=f0590c49520f">
+  <link rel="stylesheet" href="./styles/site.css?v=92669125fe89">
+  <link rel="stylesheet" href="./styles/revision.css?v=92669125fe89">
+  <link rel="stylesheet" href="./styles/article.css?v=92669125fe89">
 </head>
 <body class="article-page">
   <a class="skip-link" href="#main">Skip to content</a>

diff --git a/dist/the-transformation-ceiling-is-organisational-not-technical.html b/dist/the-transformation-ceiling-is-organisational-not-technical.html
@@ -7,9 +7,9 @@
   <meta name="description" content="How organisational design, data ownership and decision-making shape the adoption of AI.">
   <meta name="author" content="Antony Turner">
   <title>The &quot;Transformation Ceiling&quot; is Organisational, Not Technical · Koralli</title>
-  <link rel="stylesheet" href="./styles/site.css?v=f0590c49520f">
-  <link rel="stylesheet" href="./styles/revision.css?v=f0590c49520f">
-  <link rel="stylesheet" href="./styles/article.css?v=f0590c49520f">
+  <link rel="stylesheet" href="./styles/site.css?v=92669125fe89">
+  <link rel="stylesheet" href="./styles/revision.css?v=92669125fe89">
+  <link rel="stylesheet" href="./styles/article.css?v=92669125fe89">
 </head>
 <body class="article-page">
   <a class="skip-link" href="#main">Skip to content</a>
